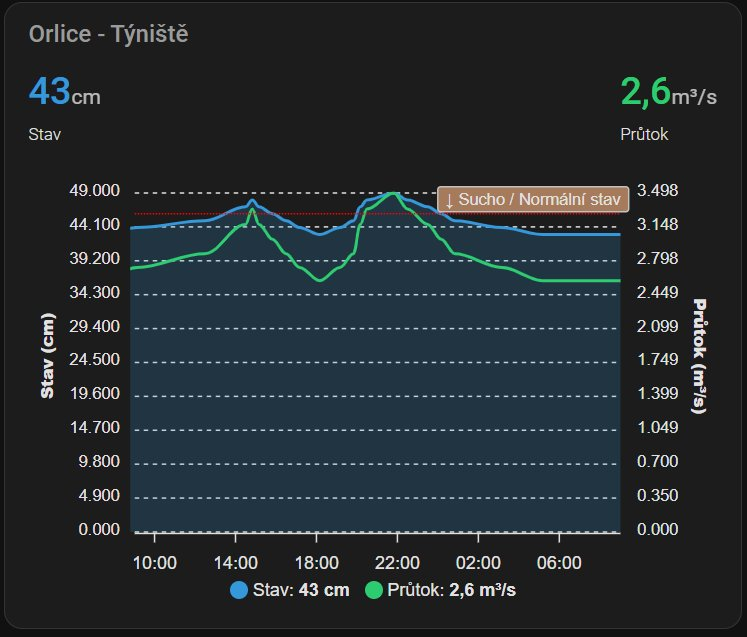
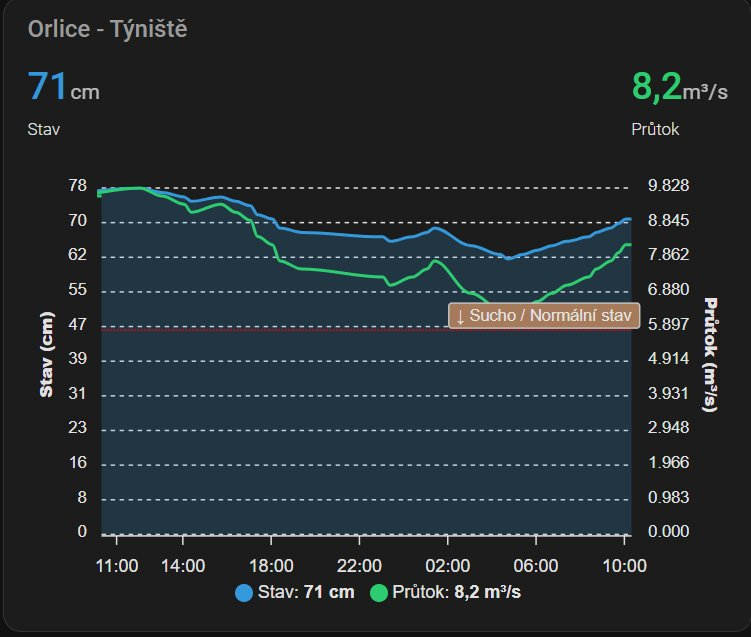
v0.9.5: official CHMI branding, data license, Y-axis precision fix (Close #7)
- Replace icon.png with official CHMI mark, remove icon.svg
- Add custom_components/chmi_hydrology/brand/ with HA 2026.3 local brand assets
  (icon.png, dark_icon.png, logo.png, dark_logo.png + @2x)
- Remove obsolete root brands/ folder (not used by HA or HACS)
- Move data License & Attribution into the existing License section
  (previously under Data Source)
- Add decimalsInFloat: 0 to water level Y-axis in ApexCharts example (close #7)
- Update dashboard_water_level_flow.png screenshot

diff --git a/README.md b/README.md
@@ -100,14 +100,6 @@ https://opendata.chmi.cz/hydrology/now/data/{station_id}.json
 
 CHMI typically updates data every **10 minutes**. Field code reference: [Popis_kodu_now_a_recent.pdf](https://opendata.chmi.cz/hydrology/read_me/Popis_kodu_now_a_recent.pdf)
 
-### License & Attribution
-
-Data is licensed under [Creative Commons Attribution 4.0 (CC BY 4.0)](https://creativecommons.org/licenses/by/4.0/deed.en).
-
-The CHMI logo is used with permission from CHMI for the purpose of identifying the data source.
-
-> **This project is not developed, operated, or endorsed by CHMI.** It is an independent open-source project created by the Home Assistant community.
-
 ---
 
 ## Entities
@@ -280,6 +272,7 @@ apex_config:
   yaxis:
     - id: stav
       min: 0
+      decimalsInFloat: 0
     - id: prutok
       opposite: true
       min: 0
@@ -506,5 +499,9 @@ actions:
 ## License
 
 MIT License. Data provided by [CHMI](https://www.chmi.cz) under open data license.
+
+Data is licensed under [Creative Commons Attribution 4.0 (CC BY 4.0)](https://creativecommons.org/licenses/by/4.0/deed.en). The CHMI logo is used with permission from CHMI for the purpose of identifying the data source.
+
+> **This project is not developed, operated, or endorsed by CHMI.** It is an independent open-source project created by the Home Assistant community.
 
 For a detailed description of the integration structure, data flow and sensor logic see [Architecture.md](Architecture.md).

diff --git a/README.cs.md b/README.cs.md
@@ -100,14 +100,6 @@ https://opendata.chmi.cz/hydrology/now/data/{station_id}.json
 
 ČHMÚ data typicky aktualizuje každých **10 minut**. Popis kódů polí: [Popis_kodu_now_a_recent.pdf](https://opendata.chmi.cz/hydrology/read_me/Popis_kodu_now_a_recent.pdf)
 
-### Licence a atribuce
-
-Data jsou licencována pod [Creative Commons Attribution 4.0 (CC BY 4.0)](https://creativecommons.org/licenses/by/4.0/deed.cs).
-
-Logo ČHMÚ je použito se souhlasem ČHMÚ pro účely identifikace zdroje dat.
-
-> **Tento projekt nevyvíjí, neprovozuje ani nepodporuje ČHMÚ.** Jde o nezávislý open-source projekt vytvořený komunitou Home Assistant.
-
 ---
 
 ## Entity
@@ -280,6 +272,7 @@ apex_config:
   yaxis:
     - id: stav
       min: 0
+      decimalsInFloat: 0
     - id: prutok
       opposite: true
       min: 0
@@ -506,5 +499,9 @@ actions:
 ## Licence
 
 MIT License. Data poskytuje [ČHMÚ](https://www.chmi.cz) v rámci otevřených dat.
+
+Data jsou licencována pod [Creative Commons Attribution 4.0 (CC BY 4.0)](https://creativecommons.org/licenses/by/4.0/deed.cs). Logo ČHMÚ je použito se souhlasem ČHMÚ pro účely identifikace zdroje dat.
+
+> **Tento projekt nevyvíjí, neprovozuje ani nepodporuje ČHMÚ.** Jde o nezávislý open-source projekt vytvořený komunitou Home Assistant.
 
 Technický popis architektury, datového toku a logiky senzorů: [Architecture.md](Architecture.md).

diff --git a/CHANGELOG.md b/CHANGELOG.md
@@ -15,11 +15,16 @@ The format is based on [Keep a Changelog](https://keepachangelog.com/en/1.0.0/).
 ### Added
 - Official CHMI brand icon and logo (with permission from CHMI)
 - `brands/` updated with icon, icon_dark, logo, logo_dark (+ @2x variants)
-- License & Attribution section in README (CC BY 4.0, CHMI logo disclaimer)
+- License & Attribution merged into the License section in README (CC BY 4.0, CHMI logo disclaimer)
+- `decimalsInFloat: 0` on the water level Y-axis in the ApexCharts example for whole-cm display
+- Moved data License & Attribution into the existing License section (previously under Data Source)
 
 ### Changed
 - `custom_components/chmi_hydrology/icon.png` replaced with official CHMI mark
 - Removed `icon.svg` (replaced by official PNG icon)
+- Added `custom_components/chmi_hydrology/brand/` with local brand assets for HA 2026.3+ (icon.png, dark_icon.png, logo.png, dark_logo.png + @2x variants)
+- Removed obsolete root `brands/` folder (not used by HA or HACS)
+- Updated dashboard_water_level_flow.png screenshot
 
 ---
 
